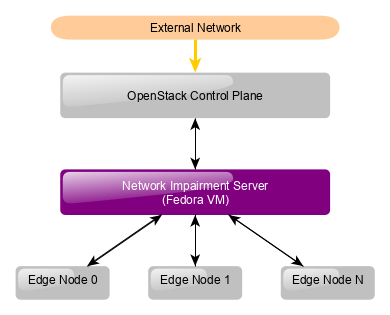
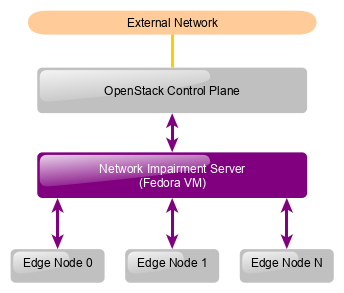
Edits take 2
- Added image for final slide showing where we are
and where we are headed.
- Added Squid diagram
- Graphic tweaks
- Fixed Kuryr typo in diagrams
- Removed slide sharing slide
- Moved topology slide to where Mark's videos were.
- Set font to sans serrif

diff --git a/index.html b/index.html
@@ -331,22 +331,6 @@ directly on controller nodes
 assets/Impairment.png)]]
 
 ---
-# Impairment Demo
-
-<video width="850" controls>
-    <source src="assets/network_impairment.mp4" type="video/mp4">
-</video>
-
-
----
-# Sample Edge Workload Demo
-
-<video width="700" controls>
-    <source src="assets/cache_demo.mp4" type="video/mp4">
-</video>
-
-
----
 template: section_layout
 
 Kuryr, Kuryr-Kubernetes & CRI-O
@@ -607,17 +591,6 @@ template: section_layout
 Demo - Kuryr with CRI-O
 
 ---
-
-template: section_layout
-
-![CC](assets/cc.svg)
-.medium-text[
-Slides are available on
-
-http://creativecommons.org/licenses/by/4.0/
-]
-
----
 template: section_layout
 
 Next Steps
@@ -629,6 +602,8 @@ Next Steps
  * Octavia is currently a Kuryr requirment
    * Octavia is a heavy lift for DCN, alternatives?
 * Deploy Ironic at edge to support bare metal instances for hosting K8S
+* Use config-data for edge instances, VMs and BM
+ * Allows for IP injection etc
 * Completion around Train/Shanghai time frame
 ---
 

diff --git a/slides.css b/slides.css
@@ -2,7 +2,7 @@
  * Basic defaults
  *****************************************************************************/
 body {
-    font-family: 'Montserrat', Sans;
+    font-family: 'Montserrat', sans-serif;
     letter-spacing: 0.7px;
 }
 .remark-slide {
@@ -285,7 +285,7 @@ table tbody tr:nth-child(even) {
   padding:0;
   margin:0;
   background: none !important;
-  border: none !important; 
+  border: none !important;
 }
 
 video {
